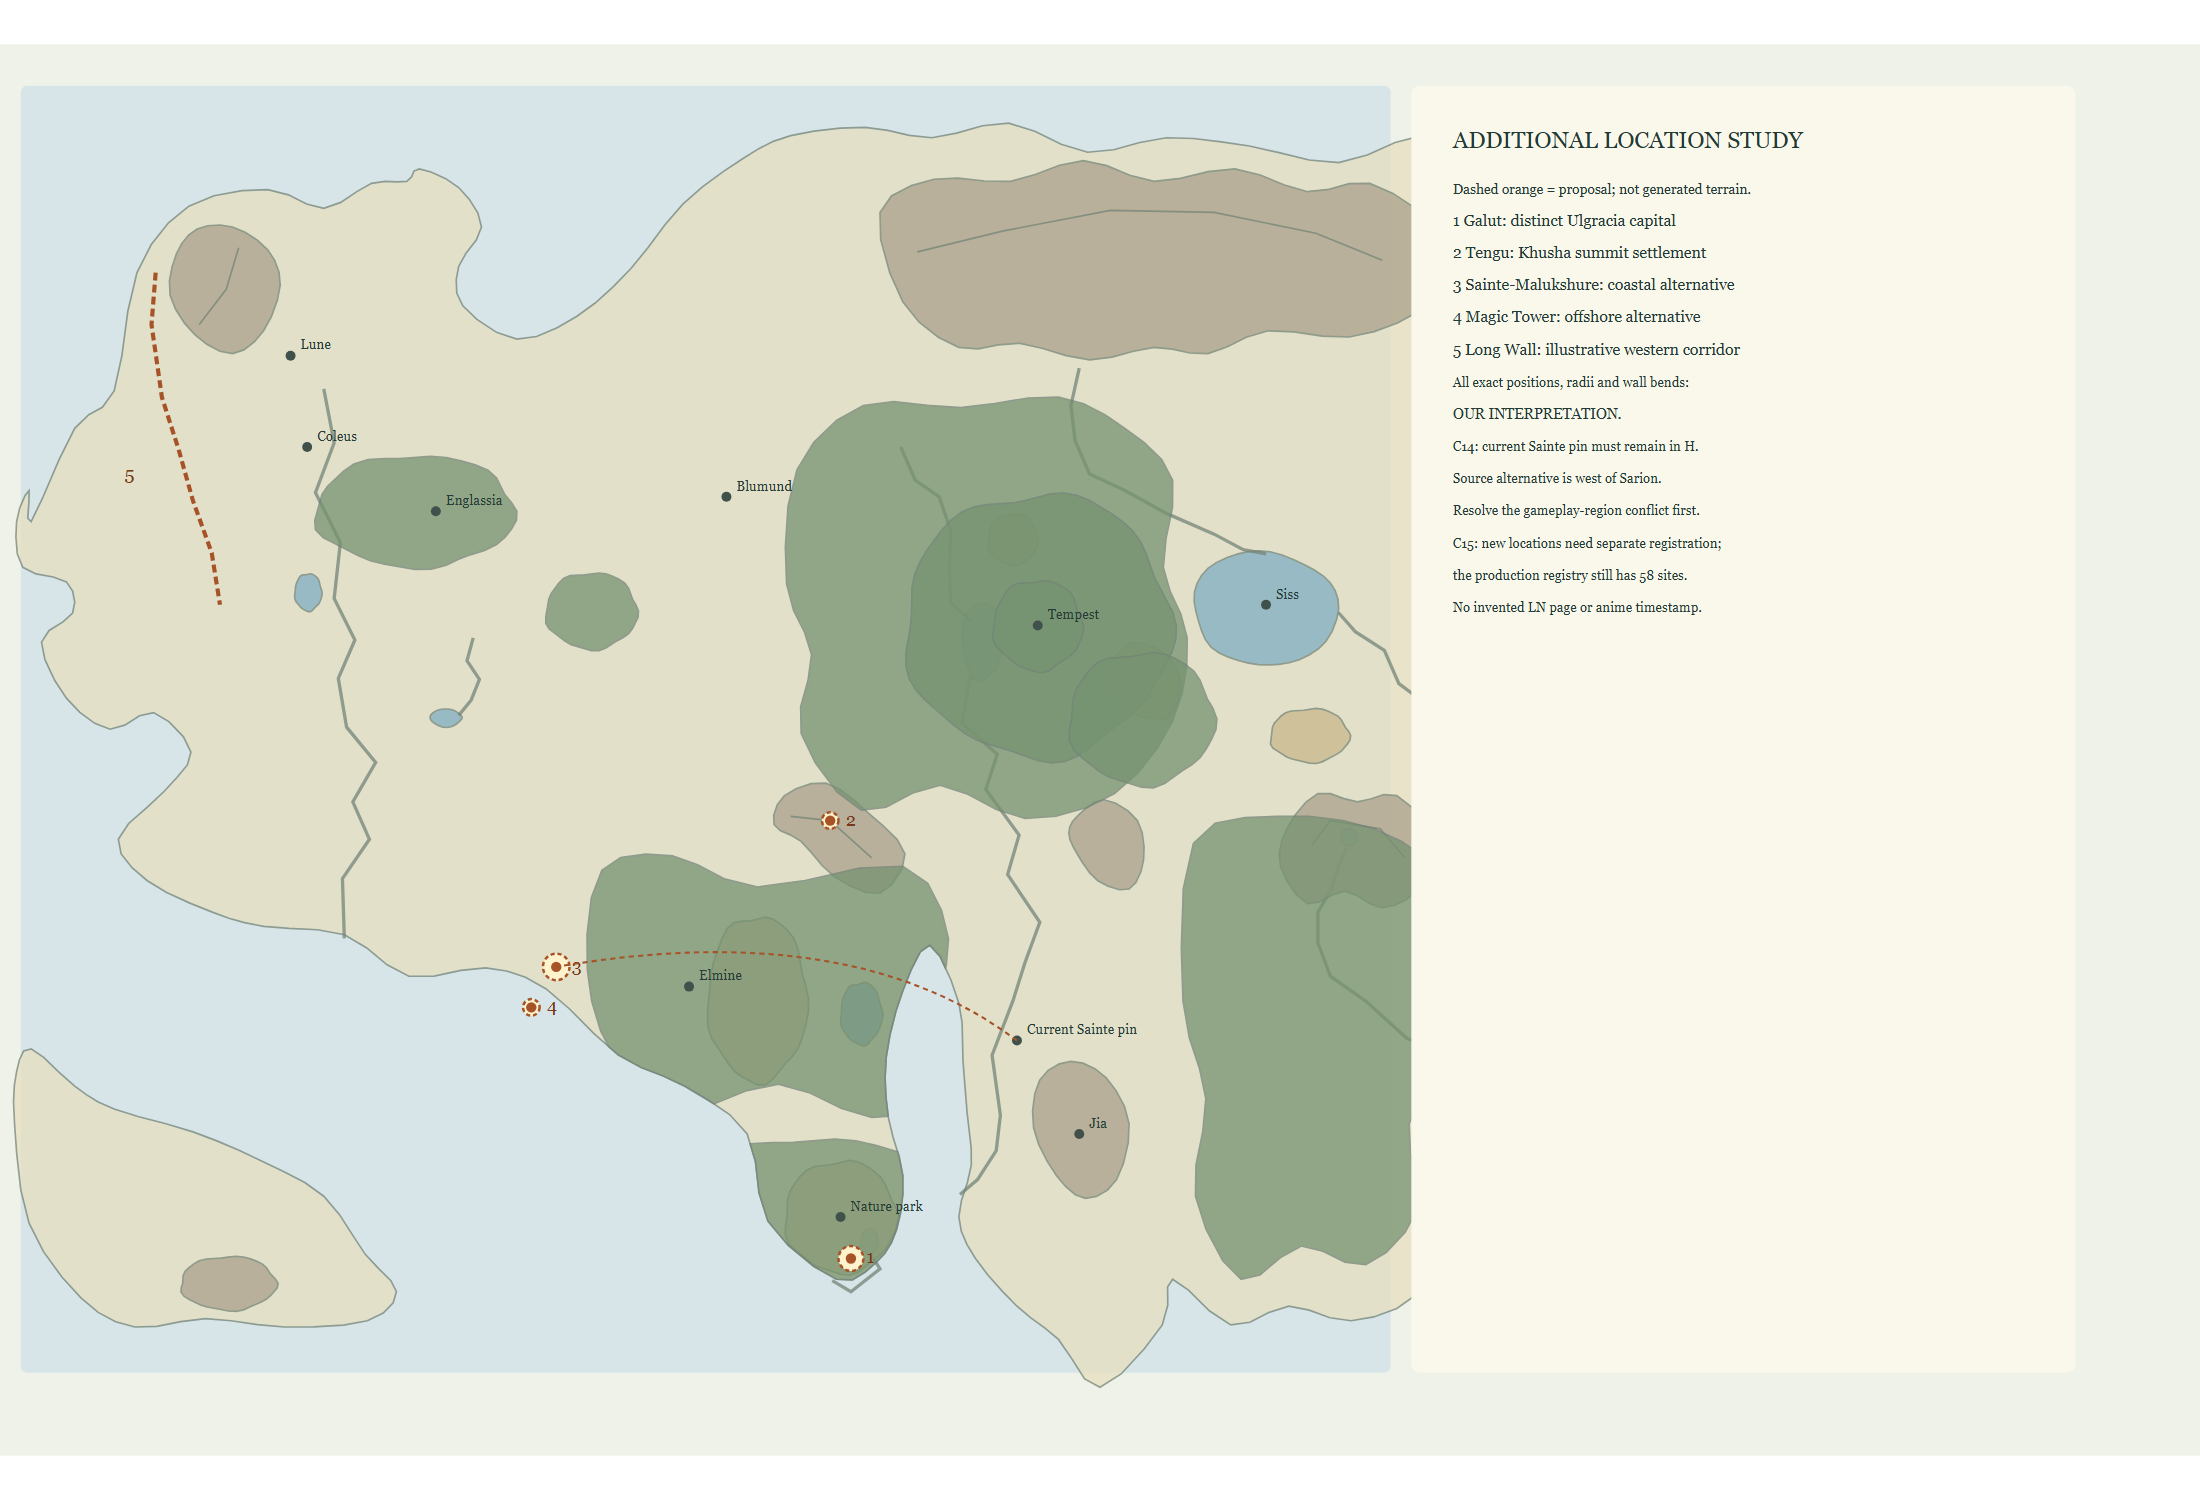
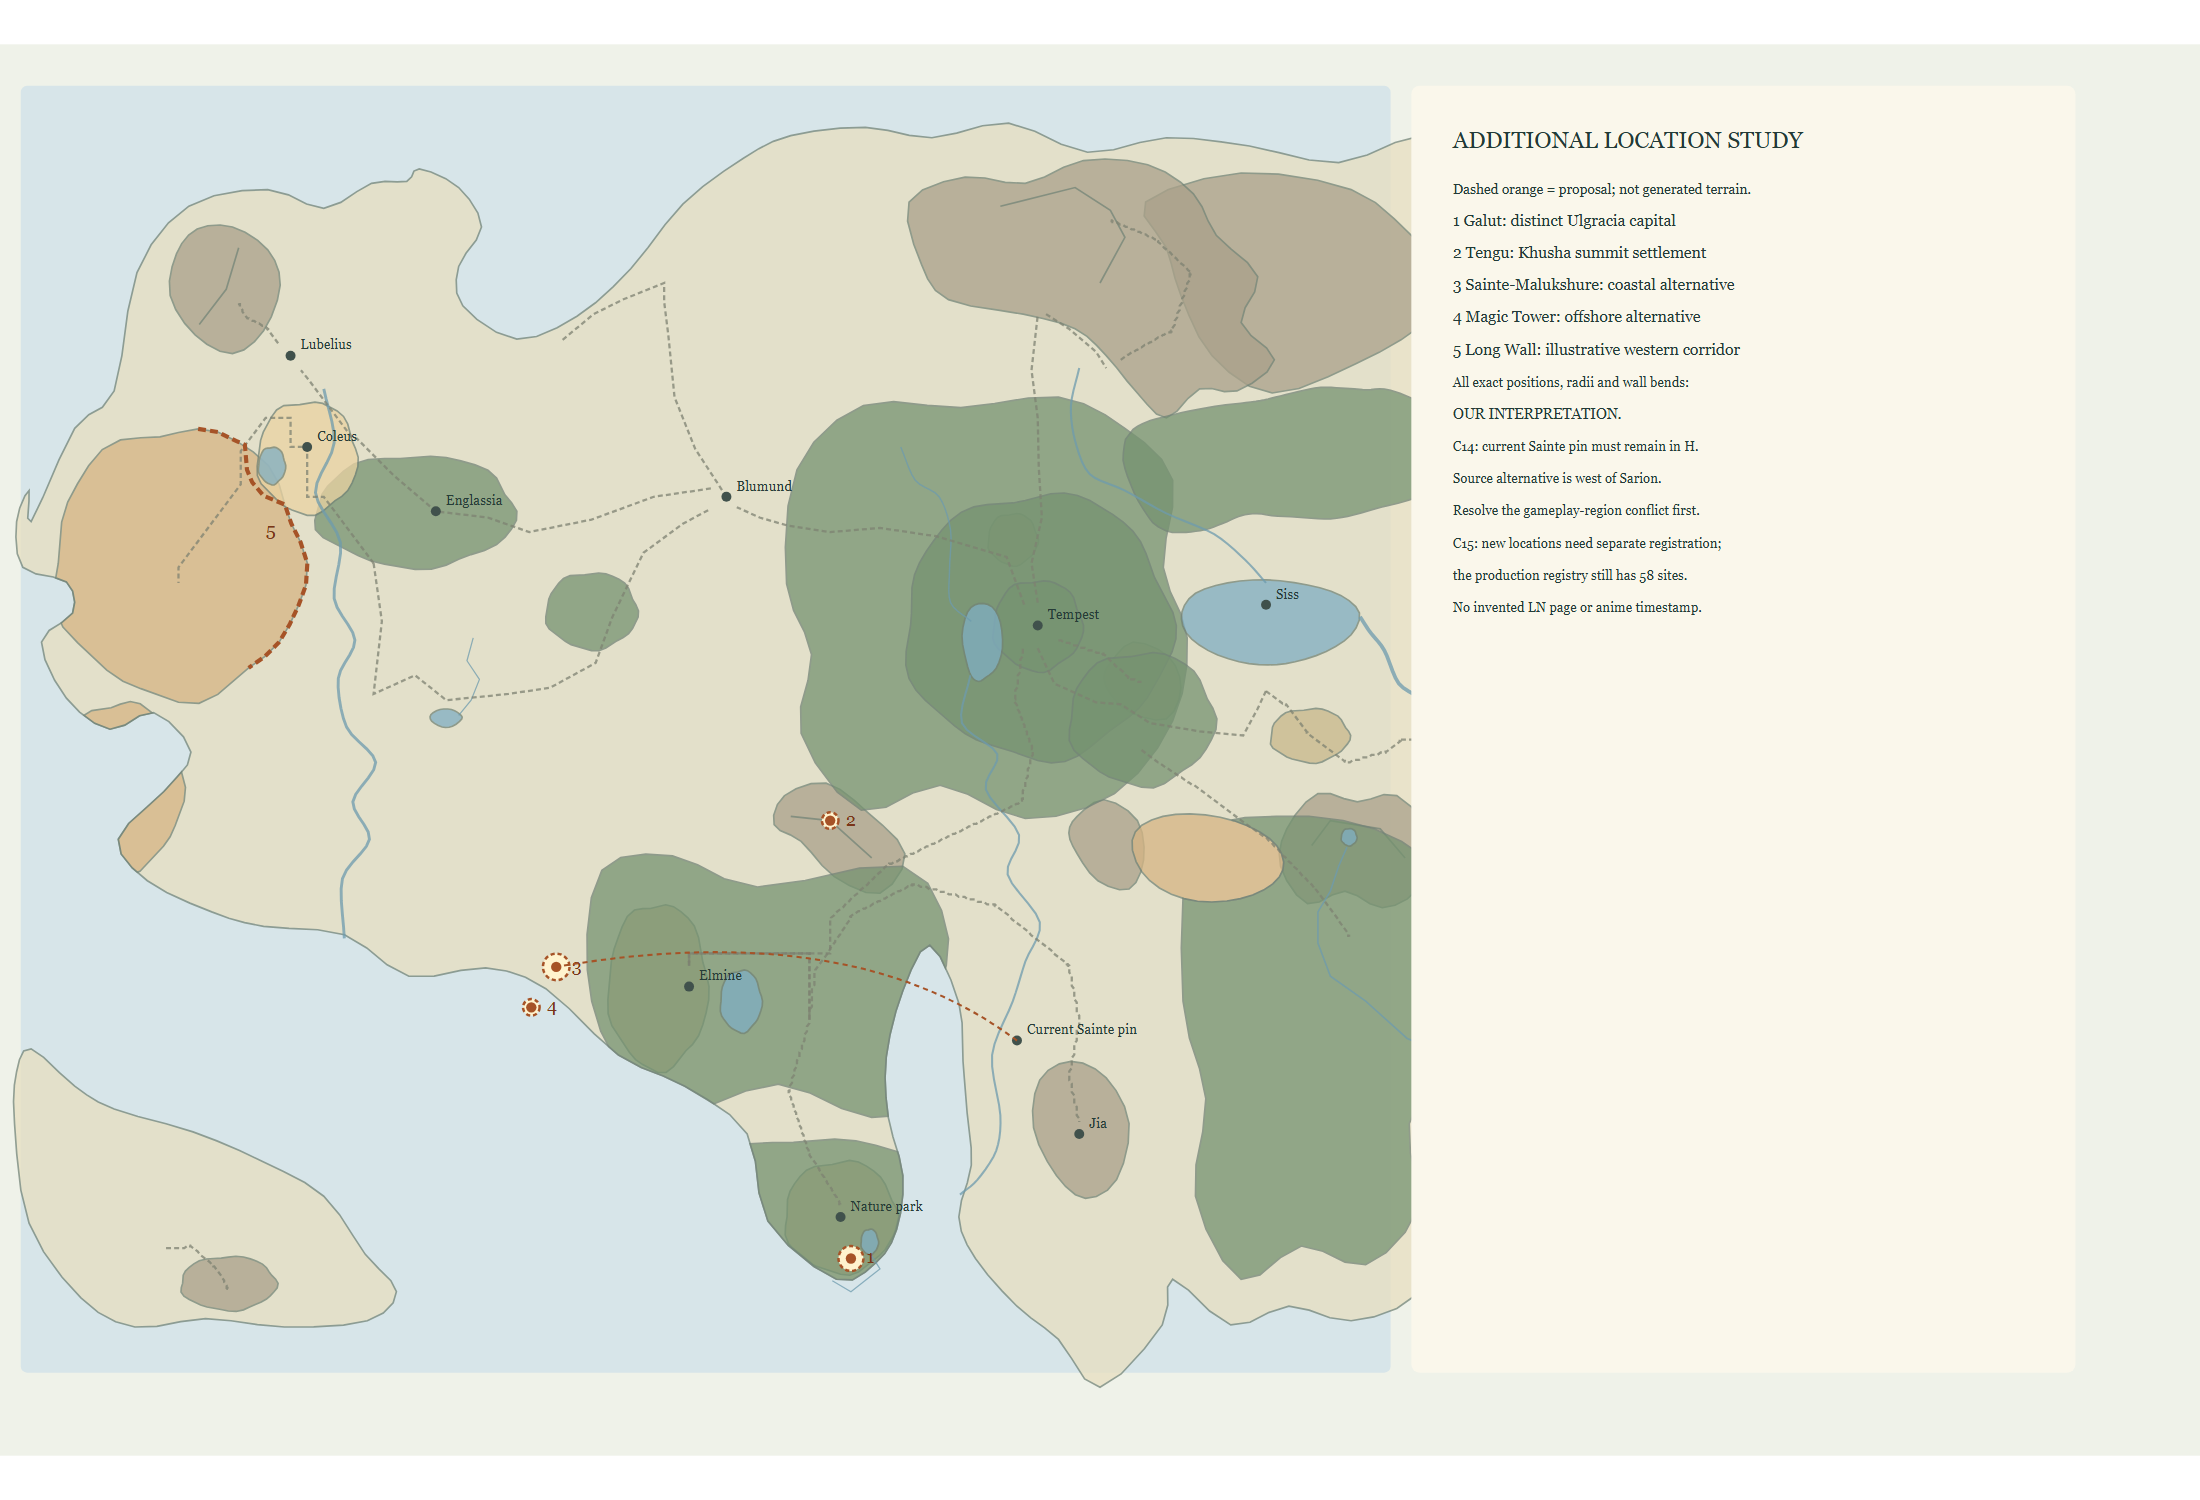
Correct Long Wall proposal along desert edge and around Coleus oasis

diff --git a/world/long-wall-corridor-review.md b/world/long-wall-corridor-review.md
@@ -1,0 +1,15 @@
+# Long Wall corridor correction — round40
+
+[Before/after study](long-wall-corridor-study.png) · [editable original](long-wall-corridor-study.svg) · [measured audit](long-wall-corridor-audit.json).
+
+The [wiki Long Wall article](https://tensura.fandom.com/wiki/Long_Wall), Background, describes a barrier separating Coleus and Lubelius from the Desert of Death. The indexed paragraph was read again; its LN20 chapter3 and LN21 chapter1 citations are leads, not direct novel readings. The legacy GC publisher URLs for volumes20/21 returned404 on21November2026. This bounded result says nothing about other licensed preview routes. The broad source relationship retains fan-wiki confidence; the exact route remains **our interpretation**.
+
+The old inert proposal crossed856.63 blocks of the authored death-desert interior,52.06% of its1645.34-block length. That drawing did not express the intended separating relationship consistently. The revised18-vertex corridor follows the existing northeast/east biome edge with a dry detour west of the Coleus oasis,from(-4045.40,-947.08) to(-3801.89,204.15),length1528.55blocks. It is not a claim that the source wall has these endpoints,length or shape. Existing desert overlap with the Coleus dunes is retained; this study does not redraw any biome or assert a surveyed national boundary. This is a corridor section,not proof of the full canonical wall's extent.
+
+The boundary-only intermediate route crossed146.16blocks of the Coleus oasis. Visual review exposed that flaw. The final dry detour stays46.58blocks from the nearest lake; its24-block buffer avoids all nine lake polygons. It departs at most about108blocks from the authored desert boundary and has372.64blocks inside the desert,24.38% of its length. That deliberate local offset keeps the oasis on the protected Coleus side. Neither route is a canonical survey. A16-block illustrative wall width fits on land. Its nearest reserved site is Coleus,with216.36blocks from the site-disc edge to the outside of the8-block half-width. The existing western_desert_caravan trail crosses at approximately(-3819.75,-867.00). A future wall design must provide a gate or a separately justified passage there. No road is cut,rerouted or promoted to a canonical highway. Height,wall thickness,towers,garrison,materials,barrier behaviour,build fit and early-era state still need source/design review. The later destruction described by the wiki is not applied to the initial post-Kijin snapshot.
+
+Only the already inert Long Wall alternative in the production SVG comment changes. All11 active layers,all58 site attributes and the checker preview are identical to5bb2467. The default checker passes with0errors,all56relations and the same2warnings. A fresh normal staging build has no warnings; all9 audited raster/road/site/preview exports remain byte-identical. Source hash changes because its comment changes; active geography and the PR102 painting registration remain identical. No map apply,Minecraft chunk generation,technical rule change,runtime edit or deployment is performed.
+
+DES-ADD-wall is corrected in place,not counted as a newly discovered canon fact. Ledger215/14directLN,inventory129/32follow-ups and58registered art pairs remain. The Long Wall stays missing in production coverage until a separately reviewed structure/placement treatment exists; drawing a better proposal does not close C15.
+
+The additional-location study backdrop is refreshed from the current active SVG layers,including the moved Coleus oasis,current roads and desert habitat. Its older backdrop predated several terrain revisions. Proposal markers remain alternatives; this presentation refresh changes no production geometry.

diff --git a/world/additional-locations.md b/world/additional-locations.md
@@ -12,7 +12,7 @@ comment in [map.svg](map.svg). Production still has exactly 58 registered sites.
 | Tengu settlement | Official episode64 confirms Khusha residence (`OFF-TEN-001`); the difficult summit description remains wiki-backed (`WIK-TEN-001`). | Revised centre `(-1000,940)`, radius40, on the existing western Khusha ridge. | [Measured ridge/terrace study](tengu-settlement-study.md) replaces the earlier hillside proposal. Height/access/build design and registration remain open. No later tunnel applied. |
 | Sainte-Malukshure | Wiki describes a coastal capital near its tower, with Sarion to the east (`WIK-MAL-001..002`). | Centre `(-2320,1645)`, radius 64, west of Elmine. | C14: current anchor requires H, which is Fulbrosia. This alternative lies in current gameplay O. Do not silently reassign the country, anchor or gameplay mask. |
 | Magic Tower | Official volume-2 manga synopsis places it in Malukshure waters (`PUB-MAL-001`). | Centre `(-2440,1840)`, radius 40, off the proposed capital shore. | Offshore structure/access proposal only. No speculative island added to the three-landmass production map. |
-| Long Wall | Wiki places the barrier between the desert and Coleus/Lubelius (`WIK-WAL-001`). | Dashed corridor from `(-4250,-1700)` to `(-3940,-100)`; bends in SVG comment. | Era and engineered wall need a separate structure/terrain decision. It is not an arbitrary mountain range. |
+| Long Wall | Wiki places the barrier between the desert and Coleus/Lubelius (`WIK-WAL-001`). | Revised boundary corridor from `(-4045.40,-947.08)` to `(-3801.89,204.15)`; [measured review](long-wall-corridor-review.md). | Era and engineered wall need a separate structure/terrain decision. It is not an arbitrary mountain range. |
 
 The official synopsis is [Tensura portal, 9 September 2024, Vacation manga volume 2 section](https://www.ten-sura.com/news/comic/tensura-comic/news/post/10534).
 It directly supports the maritime setting, not our exact shore or measurements. Manga story pages were not read.
@@ -42,3 +42,7 @@ flat circular village. Their drawn circles are review footprints. The original 5
 remain intact. Matching wiki inventory rows remain missing in production even though a proposal now exists.
 Orbic, Silberia and the other inventory gaps still need their own sourced treatment; this sheet does not
 claim the larger wiki audit or the faithful-continent goal complete.
+
+Round40 corrects the earlier Long Wall proposal: it now follows the authored desert edge with a local dry detour west of the Coleus oasis. The existing caravan-road crossing needs a future gate; exact wall course/width/endpoints remain our interpretation. All active terrain and58 reservations are retained.
+
+The additional-location study backdrop is refreshed from the current active SVG layers,including the moved Coleus oasis,current roads and desert habitat. Its older backdrop predated several terrain revisions. Proposal markers remain alternatives; this presentation refresh changes no production geometry.

diff --git a/docs/HANDOFF.md b/docs/HANDOFF.md
@@ -120,6 +120,10 @@ Draft PR102,branch chatgpt/current-painted-map-r38,worktree C:/Users/david/Docum
 
 Four public GC publisher fragments accessed; selected geographic passages/context read, not complete volumes. LN07-001 records later organized Tempest road patrols after Walpurgis, without backdating paving/security to the initial Kijin snapshot. No new small-country location established. All eighteen names in the wiki western-state list already occur in the inventory. Ledger215(157+58),14 direct LN; inventory129/32 follow-ups and58 art pairs unchanged. Access manifest stores hashes only, copyrighted cache outside repo. Production SVG/terrain/painting/runtime bytes unchanged; source1ea6782d, current presentation PR102. Full goal remains active; no repeating blocker, merge, apply or deploy. Validation recorded in world/review.md.
 
+## 21/11 — Long Wall border-corridor correction (ChatGPT, round40)
+
+Corrects DES-ADD-wall and its inert SVG proposal; old route crossed856.63blocks of desert interior,now follows existing NE/east boundary with a dry oasis detour. Original before/after vector study,measured audit and future caravan-gate obligation in world/long-wall-corridor-review.md. Sourcea24cea9b changes only a comment: all11active layers/58sites/checker preview/9normal exports identical to5bb2467. Fresh checker0errors/56relations/2warnings; normal build no warnings; repository gate in world/review.md. Ledger215/14directLN,inventory129/32follow-ups,58art pairs unchanged. Wall stays absent from production,full source/era/fit/runtime requirements remain. No merge/apply/deploy. Previous round39 made progress;no repeating blocker.
+
 ## 20/11 — Old Dragon City southeastern proportion correction (ChatGPT, PR #74 round16)
 
 Round 16 moves the old Forgotten Dragon City from(2500,150) to(2650,800), retaining radius100, M membership and all fixed relations. This follows the official illustration's broad southeastern pattern and the wiki territory relationship south of Jura/east of Eurazania. The pinned secondary marker distance discrepancy improves from-9.8% to-0.3% and bearing discrepancy from-13.3 to+0.1 degrees; projection and precision remain unknown. Exact city coordinates and two rerouted approach trails are our interpretation. All other57 site centres/radii and every coast, lake, river, mountain, hill, forest, biome and gameplay polygon remain unchanged frome129131. This is the old settlement, not the later city/castle built at Laura.

diff --git a/world/regions.md b/world/regions.md
@@ -481,3 +481,7 @@ The official Johann profile establishes the Kingdom of Rostia (OFF-ROS-037); the
 ## Current painting review — round38
 
 [PR102](https://github.com/Yasuke2000/ocs-two-lives/pull/102) refreshes original pictorial texture against the current source,with exact native coast/water/road geometry and the Orbic highlight. No illustration finding justifies new active terrain; the current SVG and exports are retained. Pictorial mountains,forest edges,bank shading and snow do not supersede these authored landform/biome specifications. Fixed/source/era/coverage/fit/runtime limits remain unchanged. The separately tracked terrain-preview copy now equals the existing current normal export byte for byte.
+
+## Long Wall proposal correction — round40
+
+The [revised inert corridor](long-wall-corridor-review.md) follows the existing authored Desert of Death boundary toward Coleus/Lubelius. The earlier route cut through the desert interior. Exact endpoints,width,wall design and a gate at the existing caravan trail remain **our interpretation**. No active coast,biome,region,road or site changes. Official map and current checker preview were visually compared; no new licensed coastline or surveyed national boundary is inferred. Source-comment hash changes only; current terrain/painted registration remains valid. C15/full source/era/structure-fit/runtime obligations remain open.

diff --git a/world/review.md b/world/review.md
@@ -1,4 +1,6 @@
-# Current map review — round39 public LN screening, post-Kijin snapshot
+# Current map review — round40 Long Wall proposal correction
+
+Round40 corrects the inert Long Wall corridor to the existing desert edge; the old proposal ran856.63blocks through its interior. Current source SHAa24cea9b46a751dbaa9b6765e2c1a5a8d829624744c980d8a9d65d159bb51295. All11 active layers/58sites/checker preview and9 normal exports are byte-identical to5bb2467. Fresh checker0errors/56relations/same2warnings; fresh normal build no warnings. Ledger215/14directLN,129inventory/32follow-ups and58art pairs retained. Repository validation and472 tests pass (26 skips,zero failures,44.129s test tier). No apply/deploy; C15/full source/geography/era/fit/runtime obligations remain open.
 
 Round39 checks four public GC publisher fragments and adds LN07-001: organized road patrols observed after Walpurgis, not evidence for initial post-Kijin paving or security. Ledger215(157+58),14 direct LN; inventory129/32 follow-ups,58 art pairs and production source1ea6782d unchanged. No SVG, checker preview, terrain export or runtime edits; no converter rerun. Repository validation and472 tests pass (26 skips,zero failures,44.131s). The full geographical/source/fixed-rule/era/build-fit/runtime audit remains open. No merge/apply/deploy.
 

diff --git a/docs/research/tensura-world-2026-11-19/README.md b/docs/research/tensura-world-2026-11-19/README.md
@@ -1,4 +1,6 @@
-# Tensura geography research — round39 publisher sample screening
+# Tensura geography research — round40 Long Wall corridor correction
+
+Current round40: [Long Wall corridor correction](../../../world/long-wall-corridor-review.md) fixes an inert proposal crossing the authored desert,including a dry detour around the Coleus oasis. No active terrain changes; fresh normal export remains identical. Ledger215/14directLN,inventory129/32follow-ups and58art pairs unchanged. Current source-comment SHAa24cea9b,same active geometry as1ea6782d.
 
 Current research follow-up round39: [public LN sample review](primary-sample-screening-r39.md) adds one narrow later road-patrol fact (LN07-001), with explicit initial-era limits. Ledger215(157+58),14 direct LN claims. Four accessible publisher fragments do not establish new small-country coordinates. Inventory129/32 follow-ups,58 registered art pairs and current geometry remain unchanged.
 

diff --git a/world/README.md b/world/README.md
@@ -1,5 +1,7 @@
 # world/ — the own world map
 
+Round40 [Long Wall review](long-wall-corridor-review.md) corrects only the inert proposal comment. New source hasha24cea9b has identical active geometry and normal-export bytes to1ea6782d; PR102 painting remains registered. No generated wall is delivered.
+
 `world/map.svg` is the single source of the new, fully own Tensura world (design: [own-world.md](../design/architecture/own-world.md),
 sections 2 and 6.1). ChatGPT draws it, `tools/world/map_check.py` validates it, a converter later turns it into rasters.
 This branch contains a **draft research-driven redraw**, with all 58 footprint-sized sites, authored coasts,
